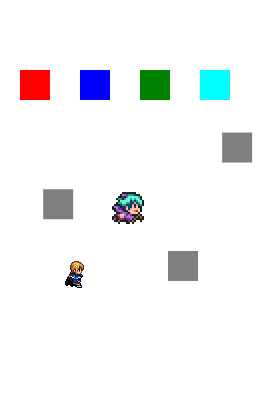
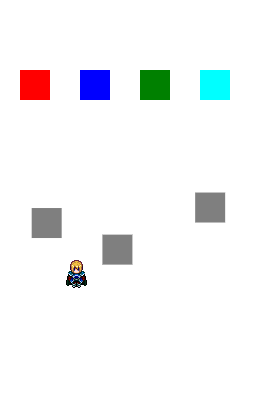
index

diff --git a/prj/02.lib_char_object/src/main.ts b/prj/02.lib_char_object/src/main.ts
@@ -9,62 +9,6 @@ function main(param: g.GameMainParameterObject): void {
 		assetPaths: ["/assets/**/*"]
 	});
 	scene.onLoad.add(() => {
-		// ここからゲーム内容を記述します
-
-		// 各アセットオブジェクトを取得します
-		const playerImageAsset = scene.asset.getImageById("player");
-		const shotImageAsset = scene.asset.getImageById("shot");
-		const seAudioAsset = scene.asset.getAudioById("se");
-
-		// プレイヤーを生成します
-		const player = new g.Sprite({
-			scene: scene,
-			src: playerImageAsset,
-			width: playerImageAsset.width,
-			height: playerImageAsset.height
-		});
-
-		// プレイヤーの初期座標を、画面の中心に設定します
-		player.x = (g.game.width - player.width) / 2;
-		player.y = (g.game.height - player.height) / 2;
-		player.onUpdate.add(() => {
-			// 毎フレームでY座標を再計算し、プレイヤーの飛んでいる動きを表現します
-			// ここではMath.sinを利用して、時間経過によって増加するg.game.ageと組み合わせて
-			player.y = (g.game.height - player.height) / 2 + Math.sin(g.game.age % (g.game.fps * 10) / 4) * 10;
-
-			// プレイヤーの座標に変更があった場合、 modified() を実行して変更をゲームに通知します
-			player.modified();
-		});
-
-		// 画面をタッチしたとき、SEを鳴らします
-		scene.onPointDownCapture.add(() => {
-			seAudioAsset.play();
-
-			// プレイヤーが発射する弾を生成します
-			const shot = new g.Sprite({
-				scene: scene,
-				src: shotImageAsset,
-				width: shotImageAsset.width,
-				height: shotImageAsset.height
-			});
-
-			// 弾の初期座標を、プレイヤーの少し右に設定します
-			shot.x = player.x + player.width;
-			shot.y = player.y;
-			shot.onUpdate.add(() => {
-				// 毎フレームで座標を確認し、画面外に出ていたら弾をシーンから取り除きます
-				if (shot.x > g.game.width) shot.destroy();
-
-				// 弾を右に動かし、弾の動きを表現します
-				shot.x += 10;
-
-				// 変更をゲームに通知します
-				shot.modified();
-			});
-			scene.append(shot);
-		});
-		scene.append(player);
-		// ここまでゲーム内容を記述します
 
 		const hero:CharEntity = CharFactory.getCharObject("hero");
 		hero.x = 64;

diff --git a/prj/02.lib_char_object/README.md b/prj/02.lib_char_object/README.md
@@ -32,8 +32,6 @@ npm run debug # access to http://localhost:3000
   <dd>ダメージ状態（点滅）</dd>
   <dt style="color:gray">■ Collision</dt>
   <dd>当たり判定確認要（ドラッグ可能）</dd>
-  <dt>上下に揺れるキャラクタ</dt>
-  <dd>公式のサンプル（削除してないだけ）</dd>
   <dt>マントを着けたキャラクタ</dt>
   <dd>生成したキャラクタ</dd>
 </dl>
